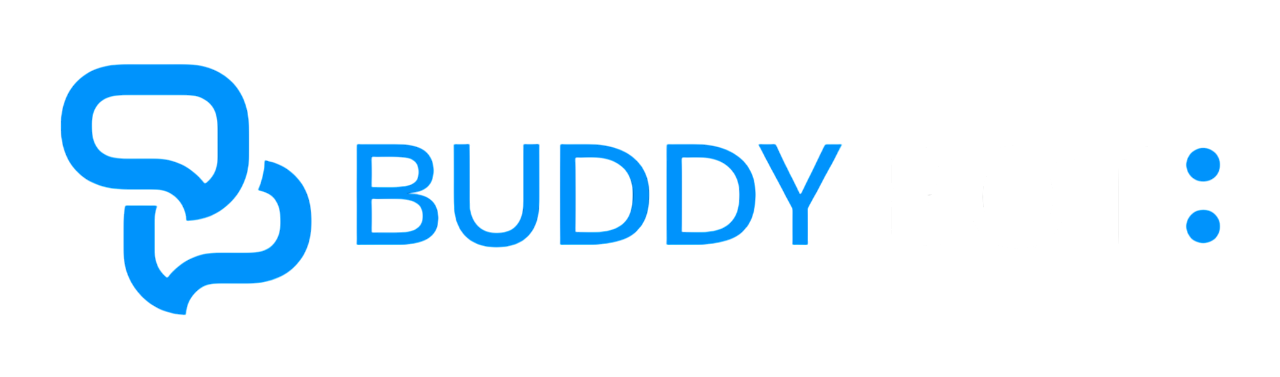
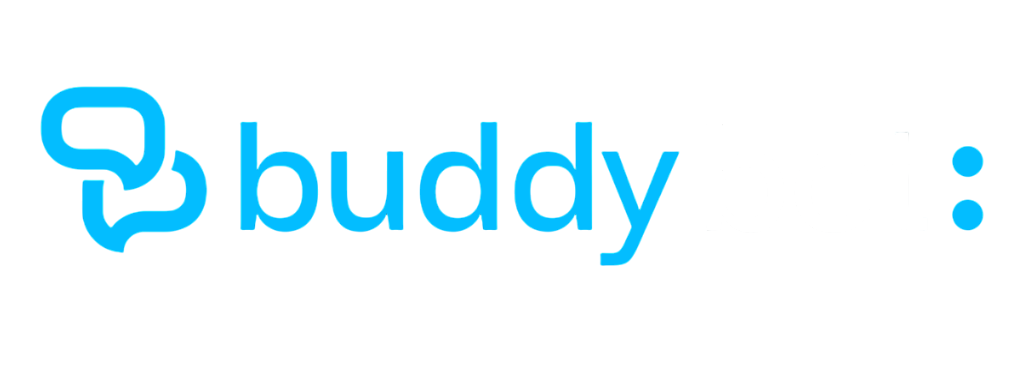
fix palette

Changed region(s): [[0.0309, 0.1478, 0.6795, 0.8575], [0.8958, 0.5323, 0.9575, 0.6505], [0.8958, 0.3844, 0.9575, 0.5027]]

diff --git a/src/App.css b/src/App.css
@@ -7,7 +7,7 @@
 }
 
 :root[data-theme="light"] {
-    --primary-100: #0077C2;
+    --primary-100: #03bdff;
     --primary-200: #59a5f5;
     --primary-300: #c8ffff;
     --accent-100: #00BFFF;
@@ -127,7 +127,16 @@ nav {
 
 #theme-switch {
     display: flex;
+}
+
+.container {
+    display: flex;
+    justify-content: center;
     align-items: center;
+}
+
+.container img {
+    margin: 0 1em;
 }
 
 #mob-theme-switcher {
@@ -170,7 +179,7 @@ nav {
 .chat-window {
     margin: 1em auto;
     height: 52em;
-    width: 95%;
+    width: 98%;
     display: flex;
     justify-content: center;
     align-items: center;

diff --git a/src/components/Navbar.tsx b/src/components/Navbar.tsx
@@ -31,6 +31,7 @@ const Navbar: React.FC = () => {
 
             <div id='theme-switcher'>
                 <Switch />
+
             </div>
         </nav >
     )
